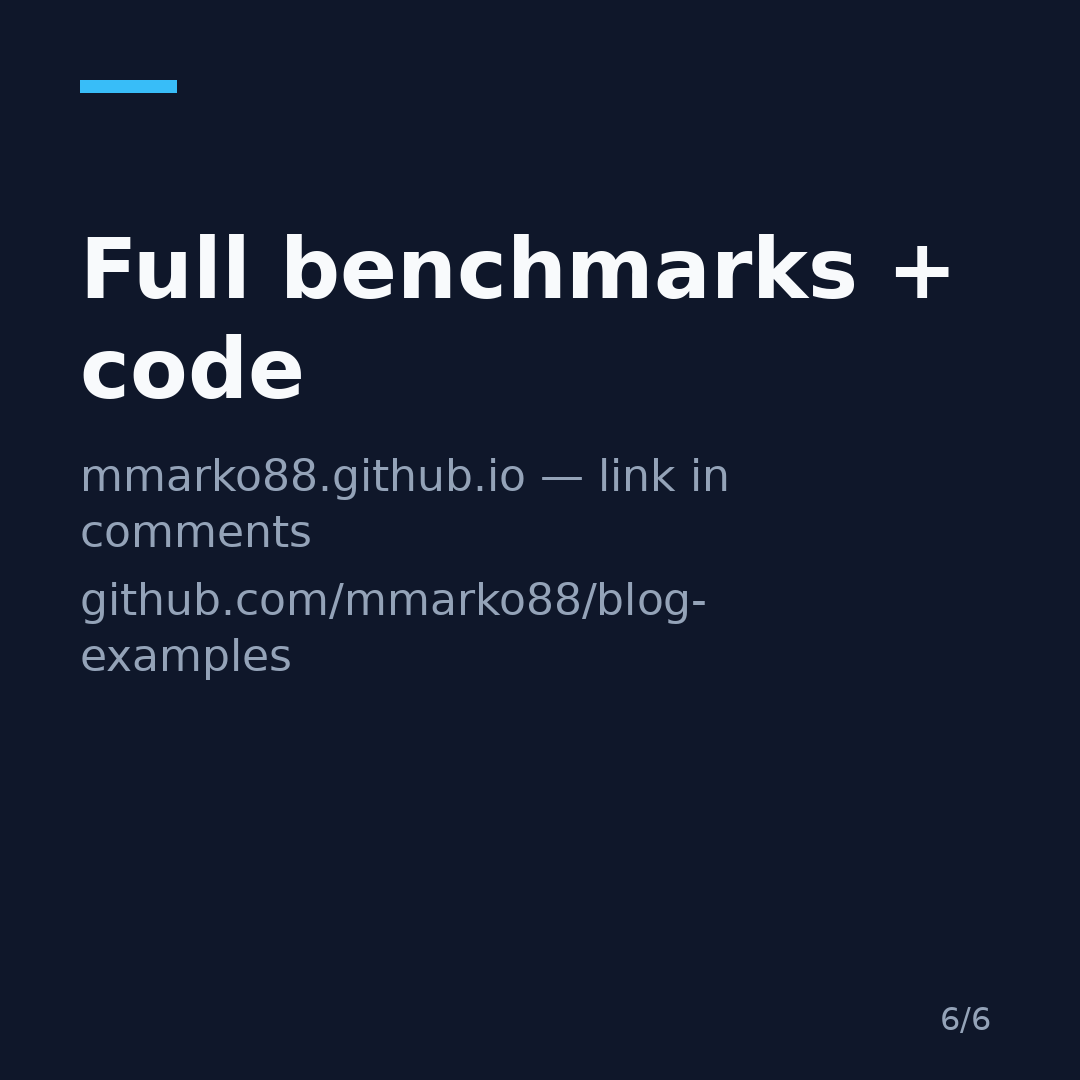
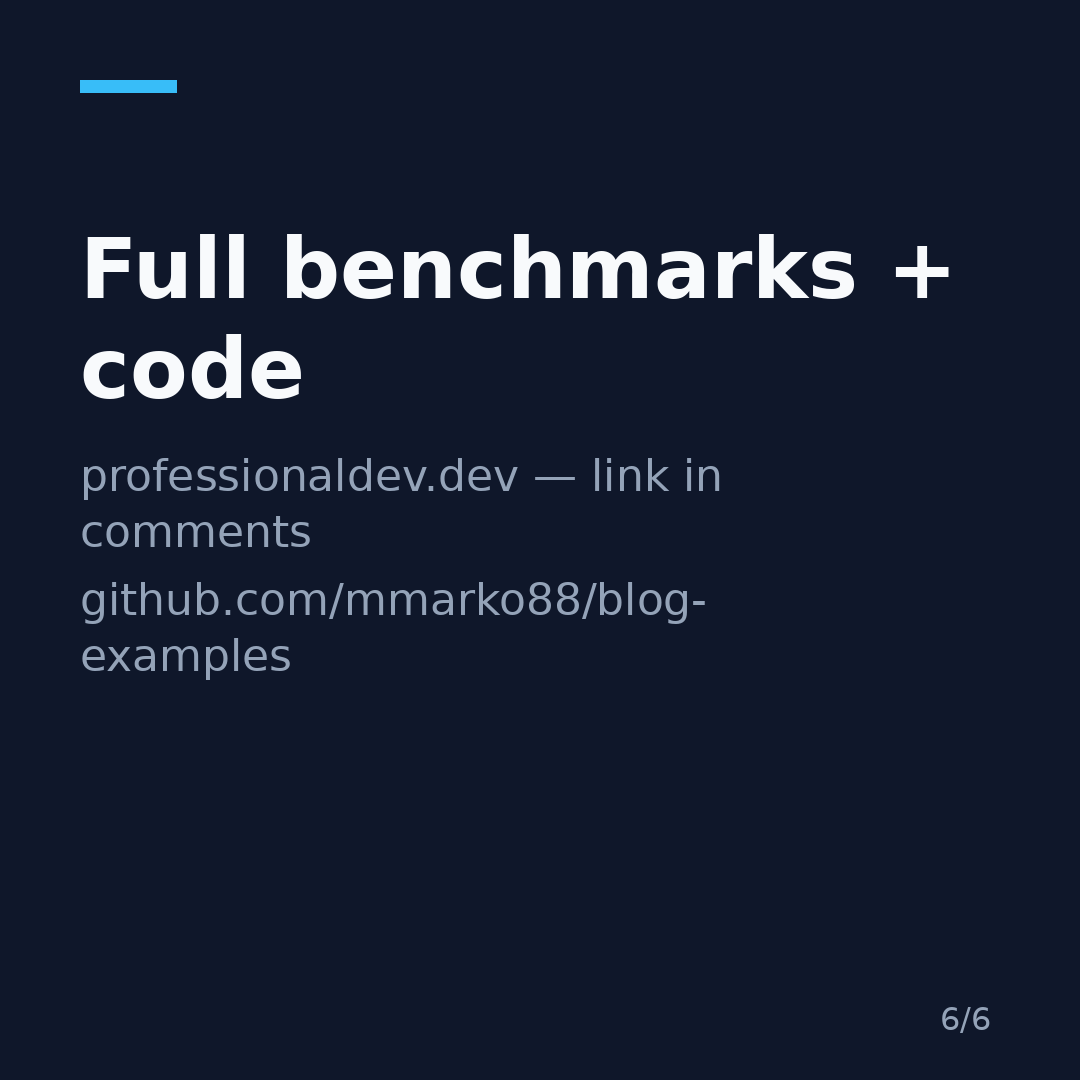
Fix carousel CTA domain and arrow glyphs
CTA slide pointed at mmarko88.github.io instead of
professionaldev.dev; normalize ASCII arrows to →.

Generated with [Devin](https://devin.ai)

Changed region(s): [[0.0917, 0.4278, 0.4889, 0.4583], [0.55, 0.4278, 0.6722, 0.4583]]

diff --git a/content/post/java/mssqlserver/fast_insert_part5/out/generate_carousel.py b/content/post/java/mssqlserver/fast_insert_part5/out/generate_carousel.py
@@ -30,7 +30,7 @@ SLIDES = [
         "saveAll() calls merge() — SELECT before every INSERT",
         "100k entities = 100,000 extra SELECTs",
         "Implement Persistable<T>, return isNew() = true",
-        "26,545 ms -> 2,140 ms (~12x faster)",
+        "26,545 ms → 2,140 ms (~12x faster)",
     ]},
     {"kind": "content", "headline": "2. StatelessSession = bare metal", "lines": [
         "Drops L1 cache, dirty checking, cascading",
@@ -40,7 +40,7 @@ SLIDES = [
     {"kind": "content", "headline": "3. Turn on the bulkCopy flag", "lines": [
         "URL flag: useBulkCopyForBatchInsert=true",
         "Batches become one Bulk Copy stream each",
-        "StatelessSession: 1,850 -> 646 ms (2.9x)",
+        "StatelessSession: 1,850 ms → 646 ms (2.9x)",
         "Only ~30% off raw Bulk API (499 ms)",
     ]},
     {"kind": "content", "headline": "Then tune jdbc.batch_size", "lines": [
@@ -50,7 +50,7 @@ SLIDES = [
     ]},
     {"kind": "cta",
      "headline": "Full benchmarks + code",
-     "sub": "mmarko88.github.io — link in comments\ngithub.com/mmarko88/blog-examples"},
+     "sub": "professionaldev.dev — link in comments\ngithub.com/mmarko88/blog-examples"},
 ]
 
 # Tuned so no rendered line exceeds SIZE - 2*MARGIN (920 px) in DejaVu:
